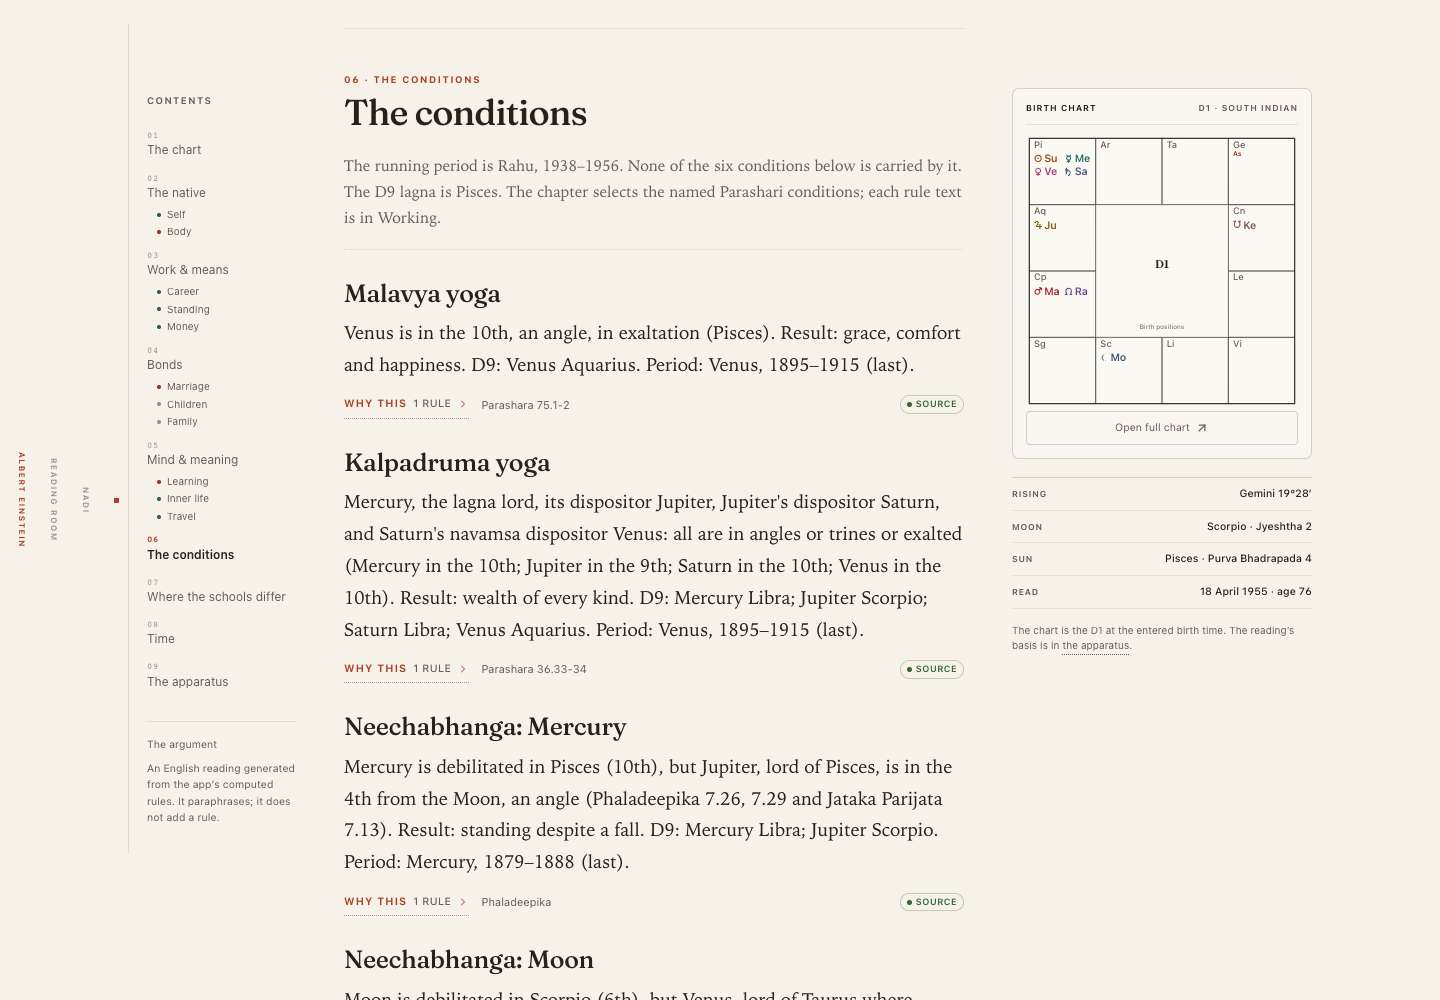
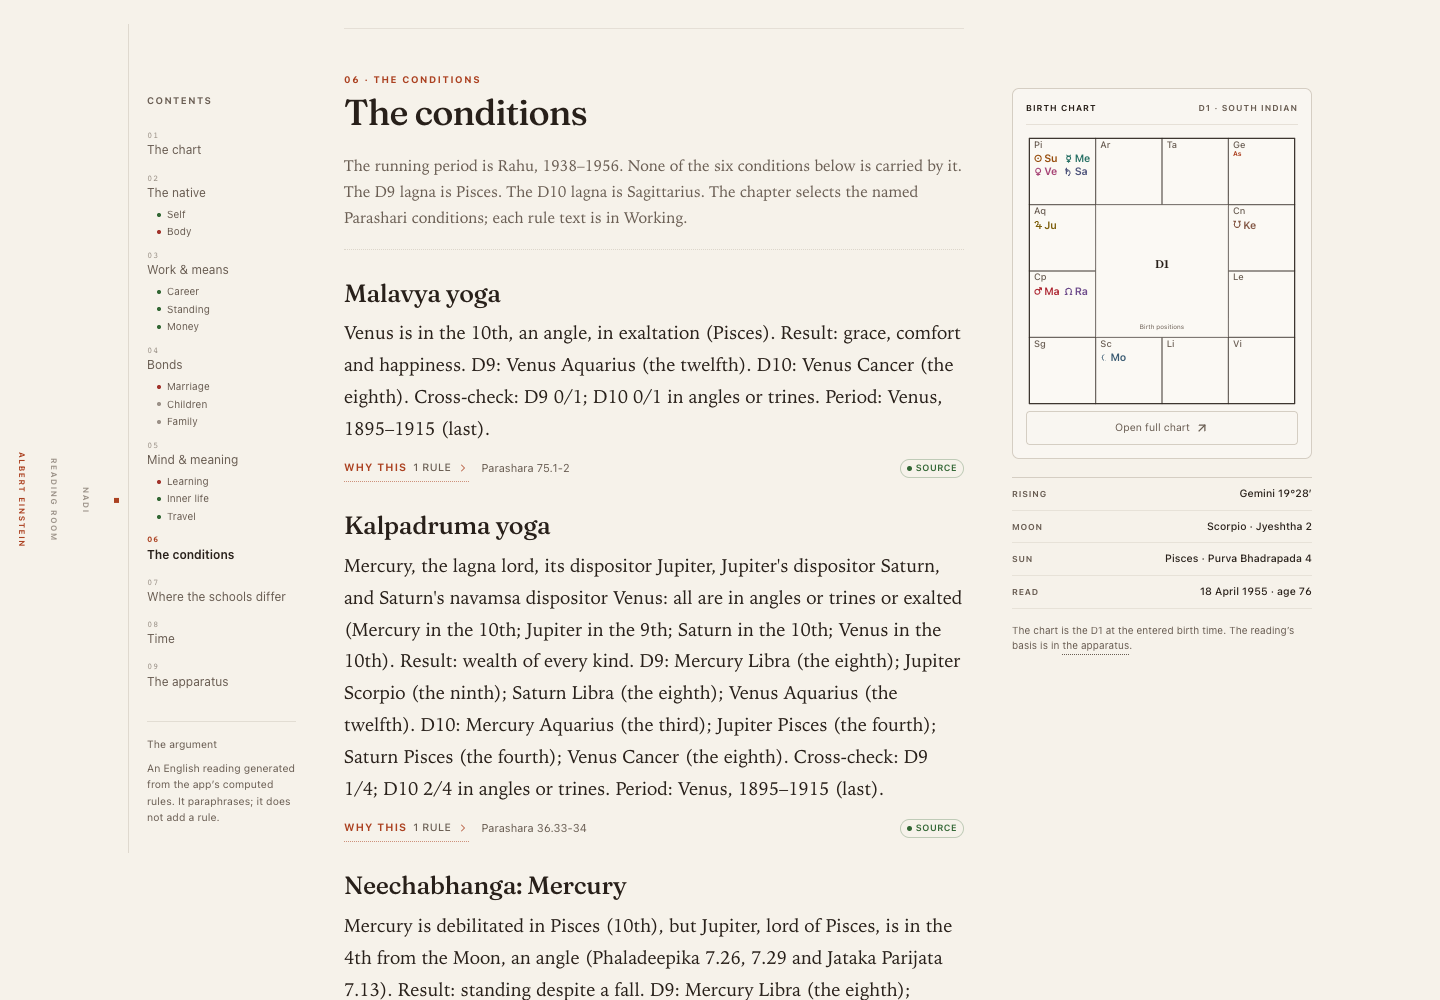
Add D9/D10 cross-checks to the condition layer

Changed region(s): [[0.2188, 0.341, 0.6875, 1.0], [0.375, 0.186, 0.6562, 0.217], [0.25, 0.217, 0.3125, 0.248]]

diff --git a/shared/reading-prose.ts b/shared/reading-prose.ts
@@ -21,6 +21,7 @@ import { briefingFor, type Briefing, type BriefRow } from "./briefing";
 import { readerExperience, type ReaderExperience, type ReaderTopic } from "./reader-experience";
 import { PLAIN_TOPIC_LABEL, PLAIN_TOPIC_ORDER, type PlainTopic } from "./topic-brief";
 import type { ParashariFinding, ParashariResult } from "./parashari";
+import { computeVargas, type VargaKey, type VargasResult } from "./vargas";
 import { AREA_STRUCTURES } from "./reading-lexicon";
 
 // ── Public shapes ───────────────────────────────────────────────────────────────────────────────
@@ -85,8 +86,12 @@ export interface ReadingCondition {
   active: boolean;
   /** "Period: Venus, 1895–1915 (last)." */
   period: string;
-  /** "D9: Venus Aquarius; Mercury Libra." */
+  /** "D9: Venus Aquarius (12th); Mercury Libra (8th)." */
   d9: string;
+  /** "D10: Venus Leo (8th); Mercury Virgo (3rd)." */
+  d10: string;
+  /** "Cross-check: D9 0/1; D10 0/1 in angles or trines." */
+  crossCheck: string;
   /** The first sentence of the rule and its gist. */
   text: string;
 }
@@ -535,6 +540,8 @@ class Writer {
   get agreement() { return this.input.agreement; }
   get briefing() { return this.input.briefing; }
   get parashari() { return this.input.parashari; }
+  private vargaCache?: VargasResult;
+  get vargas() { return (this.vargaCache ??= computeVargas(this.positions, this.lagna.lon)); }
   get chart() { return this.input.result.chart; }
   get positions() { return this.input.result.positions; }
   get lagna() { return this.input.result.jaimini.lagna; }
@@ -1129,10 +1136,37 @@ class Writer {
     return "Period: none in the sequence.";
   }
 
+  private vargaLine(key: Extract<VargaKey, "D9" | "D10">, f: ParashariFinding): string {
+    const lagna = this.vargas.lagna[key];
+    const signs = new Map(this.vargas.planets.map((p) => [p.planet, p.signs[key]]));
+    const parts = f.planets.map((planet) => {
+      const sign = signs.get(planet);
+      if (sign === undefined) return "";
+      return `${planet} ${SIGNS[sign]} (the ${ORD_WORDS[houseFrom(lagna, sign)]})`;
+    }).filter(Boolean);
+    return parts.length ? `${key}: ${parts.join("; ")}.` : "";
+  }
+
   private conditionD9(f: ParashariFinding): string {
-    const navamsa = new Map(this.result.jaimini.navamsa.map((p) => [p.planet, p.sign]));
-    const parts = f.planets.map((p) => `${p} ${navamsa.get(p) ?? ""}`.trim()).filter(Boolean);
-    return parts.length ? `D9: ${parts.join("; ")}.` : "";
+    return this.vargaLine("D9", f);
+  }
+
+  private conditionD10(f: ParashariFinding): string {
+    return this.vargaLine("D10", f);
+  }
+
+  private conditionCrossCheck(f: ParashariFinding): string {
+    const angles = new Set([1, 4, 5, 7, 9, 10]);
+    const count = (key: Extract<VargaKey, "D9" | "D10">) => {
+      const lagna = this.vargas.lagna[key];
+      const signs = new Map(this.vargas.planets.map((p) => [p.planet, p.signs[key]]));
+      return f.planets.filter((planet) => {
+        const sign = signs.get(planet);
+        return sign !== undefined && angles.has(houseFrom(lagna, sign));
+      }).length;
+    };
+    const total = f.planets.length;
+    return `Cross-check: D9 ${count("D9")}/${total}; D10 ${count("D10")}/${total} in angles or trines.`;
   }
 
   private conditionText(f: ParashariFinding): string {
@@ -1180,7 +1214,8 @@ class Writer {
         : `None of the ${count} conditions below is carried by it.`}`
       : "No Vimshottari period is running at the reading date.";
     const d9 = this.result.jaimini.navamsaLagna?.sign ? `The D9 lagna is ${this.result.jaimini.navamsaLagna.sign}.` : "";
-    return tidy(`${running} ${d9} The chapter selects the named Parashari conditions; each rule text is in Working.`);
+    const d10 = this.vargas.lagna.D10 !== undefined ? `The D10 lagna is ${SIGNS[this.vargas.lagna.D10]}.` : "";
+    return tidy(`${running} ${d9} ${d10} The chapter selects the named Parashari conditions; each rule text is in Working.`);
   }
 
   conditionSection(): { section: ProseSection; conditions: ReadingCondition[] } {
@@ -1194,13 +1229,15 @@ class Writer {
       active: this.conditionActive(f),
       period: this.conditionPeriod(f),
       d9: this.conditionD9(f),
+      d10: this.conditionD10(f),
+      crossCheck: this.conditionCrossCheck(f),
       text: this.conditionText(f),
     }));
     const paragraphs = findings.length
       ? findings.map((f) => ({
           id: `condition-${f.id}`,
           subhead: f.title,
-          text: tidy(`${this.conditionText(f)} ${this.conditionD9(f)} ${this.conditionPeriod(f)}`),
+          text: tidy(`${this.conditionText(f)} ${this.conditionD9(f)} ${this.conditionD10(f)} ${this.conditionCrossCheck(f)} ${this.conditionPeriod(f)}`),
           evidence: [this.parashariEvidence(f)],
         }))
       : [{ id: "conditions-empty", text: "The Parashari engine reports no named yoga for this chart.", evidence: [] }];
@@ -1211,7 +1248,7 @@ class Writer {
         title: "The conditions",
         preamble: conditions.length ? this.conditionPreamble(conditions) : undefined,
         paragraphs,
-        note: `The chapter selects ${conditions.length} named conditions, not the full yoga ledger. The period test is the app's own: the running lord must be one of the condition's planets; it is not a classical dasha-activation rule. Each rule text is in Why this.`,
+        note: `The chapter selects ${conditions.length} named conditions, not the full yoga ledger. The period test is the app's own: the running lord must be one of the condition's planets; it is not a classical dasha-activation rule. The D9/D10 cross-check counts the condition's planets in angles or trines from each varga lagna; it is an app cross-check, not a classical confirmation. Each rule text is in Why this.`,
       },
       conditions,
     };

diff --git a/scripts/reading-prose.test.ts b/scripts/reading-prose.test.ts
@@ -25,6 +25,8 @@ test("the reading has the agreed chapter shape", () => {
   assert.equal(doc.conditions.length, 6);
   assert.ok(doc.conditions.every((c) => c.period.startsWith("Period:")), "every condition states its period");
   assert.ok(doc.conditions.every((c) => c.d9.startsWith("D9:")), "every condition states its D9 positions");
+  assert.ok(doc.conditions.every((c) => c.d10.startsWith("D10:")), "every condition states its D10 positions");
+  assert.ok(doc.conditions.every((c) => c.crossCheck.startsWith("Cross-check:")), "every condition carries the angular cross-check");
   assert.equal(doc.index.length, 11);
   assert.deepEqual(
     doc.index.map((e) => e.topic),

diff --git a/docs/reading-room.md b/docs/reading-room.md
@@ -36,7 +36,7 @@ The first release read five areas. V2 reads the whole life without becoming elev
 | **Work & means** | career, authority, wealth | The working life, public standing and money as separate questions. |
 | **Bonds** | marriage, children, family | The chapter where disagreement is the finding; family is read member by member. |
 | **Mind & meaning** | education, spirituality, travel | The descriptive areas: learning, inner life and distance. |
-| **The conditions** | — | Six selected Parashari yogas, their D9 facts and the period that carries each. A condition ledger, not the full yoga corpus. |
+| **The conditions** | — | Six selected Parashari yogas, their D9/D10 positions, an angular cross-check and the period that carries each. A condition ledger, not the full yoga corpus. |
 | **Time** | — | The Vimshottari period, the sub-period and the slow sky, as clocks rather than events. |
 | **The schools** | — | The comparison of bases: five general topics × four schools, no vote. |
 | **The apparatus** | — | Sources, caveats, provenance, school cards, marks and citation. |
@@ -53,10 +53,11 @@ Each paragraph is a fixed ledger, not a free paragraph:
 
 1. the first sentence of the rule;
 2. `Result:` the rule's gist;
-3. `D9:` the navamsa positions of the condition's planets;
-4. `Period:` the Vimshottari period that carries it — current, next, or last.
+3. `D9:` and `D10:` the navamsa and dasamsa positions of the condition's planets;
+4. `Cross-check:` how many of those planets fall in the angles or trines from each varga lagna;
+5. `Period:` the Vimshottari period that carries it — current, next, or last.
 
-The D9 line is a set of positions, not a verdict. The period line is current when the running lord is one of the condition's planets; for a recorded death it uses the last period before the reading date, never a future period to imply posthumous activation. That activation test is the **app's own simplification**, not a classical dasha-activation rule; the condition is a named yoga, and the period is a reading aid. For the Einstein chart the running Rahu period carries none of the six, and the chapter says so. The full rule text is in Why this; the chapter is not the complete yoga ledger.
+The D9/D10 lines are positions, not verdicts. The cross-check is an **app convention**: it counts the condition's planets in the 1st, 4th, 5th, 7th, 9th and 10th from the varga lagna. It is not a classical varga-confirmation rule. For Einstein, Malavya is 0/1 in both vargas, while the Kendra-trikona exchange is 2/2 in D10; the chapter prints both counts rather than smoothing them. The period line is current when the running lord is one of the condition's planets; for a recorded death it uses the last period before the reading date, never a future period to imply posthumous activation. That activation test is the **app's own simplification**, not a classical dasha-activation rule; the condition is a named yoga, and the period is a reading aid. For the Einstein chart the running Rahu period carries none of the six, and the chapter says so. The full rule text is in Why this; the chapter is not the complete yoga ledger.
 
 
 The **chapter preamble** is now the technical frame in the reading: the lagna and relevant houses, their lords and occupants, degrees, dignities and strength, the Jaimini karakas (with D9), and the KP cusp and sub-lord. It assumes the reader knows **lagna, bhava, lord, karaka, D9, dasha, bhukti, pratyantar, bindus and cusp sub-lord**. It does not gloss them. The per-area Parashari frame remains in Working.
@@ -76,7 +77,7 @@ Each chapter now has three registers:
 2. **The area paragraphs** — the human argument: claim, the area's fixed structure anchor, the reviewed Nadi lines, bridge, limit.
 3. **The coda** — a short closing paragraph, marked with a vermilion square, that states the chapter's pattern across its areas.
 
-The reading is longer because it is no longer a trailer. The Einstein chart runs to roughly 2,200 words and eleven minutes; the preambles carry the facts a practitioner would otherwise look up in the tabs, every area names its configuration in its own fixed form, and the conditions chapter adds the named yogas the tab engine already found.
+The reading is longer because it is no longer a trailer. The Einstein chart runs to roughly 2,350 words and twelve minutes; the preambles carry the facts a practitioner would otherwise look up in the tabs, every area names its configuration in its own fixed form, and the conditions chapter adds the named yogas the tab engine already found.
 
 ## The prose layer
 
@@ -107,7 +108,7 @@ The details that make it read like English rather than a table:
 - **Uncertainty in the grammar.** A contested area is allowed to be an argument; a provisional rule keeps its mark; a calculation's grade is in the working, not hidden in a footnote.
 - **No forecast.** The timing section names the period and the sky and says, in the same breath, that the app does not turn them into an event.
 
-For the Einstein chart the reading is about 2,200 words and eleven minutes, with eleven area paragraphs, four technical preambles, four chapter codas and six condition paragraphs. The lead is:
+For the Einstein chart the reading is about 2,350 words and twelve minutes, with eleven area paragraphs, four technical preambles, four chapter codas and six condition paragraphs. The lead is:
 
 > Albert Einstein was born on 14 March 1879 at 11:30 local time in Ulm, Baden-Wurttemberg, Germany, with Gemini rising at 19°28′. The chart's centre of gravity is Jupiter, the Jeeva, standing alone in Aquarius at 5°19′. Pisces — the tenth sign from the rising — gathers the Sun, Mercury, Saturn, and Venus, which is where the work theme begins. The Moon is in Scorpio, Jyeshtha 2, the sixth house from the rising.
 
@@ -118,7 +119,7 @@ For the Einstein chart the reading is about 2,200 words and eleven minutes, with
 - **The marginal spine.** At wide widths, a vertical folio runs down the outer margin — the room's signature, not an app chrome.
 - **In brief and the contents rail.** The summary is a run-in epigraph; the eleven areas are nested in the contents rail, not in a card grid. The rail is also the chapter navigation.
 - **The preamble and the frames.** Each life chapter opens with the technical preamble; every area still carries its Parashari house frame in Working, and each chapter carries the Jaimini and KP lines.
-- **The conditions.** Six named Parashari yogas are selected, each with the first sentence of its rule, its result, its D9 positions and the Vimshottari period that carries it. The running Rahu period carries none of the six; the chapter says so rather than inventing an activation. The full rule text is in Why this.
+- **The conditions.** Six named Parashari yogas are selected, each with the first sentence of its rule, its result, its D9 and D10 positions, an angular cross-check and the Vimshottari period that carries it. The running Rahu period carries none of the six; the chapter says so rather than inventing an activation. The full rule text is in Why this.
 - **Why this.** Every paragraph with evidence carries the mark types and a button that opens the exact rule text, source and grade.
 - **The comparison.** Five general topics × four schools. Each cell is the school's own verdict and the object it judged; the row carries the combined reading. No vote is counted. Life span is a separate, gated topic and is not folded in.
 - **Time.** The Vimshottari period, the sub-period, the third-level period, and the slow sky, as a structured timeline, not forty pages of paryanthar prose.
@@ -168,7 +169,7 @@ npx tsx --test scripts/reading-prose.test.ts
 npm run build
 ```
 
-The three prose tests check the chapter shape, the four preambles and codas, the six conditions and their period/D9 fields, all eleven area paragraphs and their frames, the five-line summary and the eleven-area contents, determinism across two compositions, the lexicon lint (no "clearest line", no universal "The line is", small allowances for repeated tone words), unique area claims, and the presence of source, provisional and calculation marks.
+The three prose tests check the chapter shape, the four preambles and codas, the six conditions and their period, D9/D10 and cross-check fields, all eleven area paragraphs and their frames, the five-line summary and the eleven-area contents, determinism across two compositions, the lexicon lint (no "clearest line", no universal "The line is", small allowances for repeated tone words), unique area claims, and the presence of source, provisional and calculation marks.
 
 A teardown of a mainstream 108-page Parashari report, and what to borrow or avoid, is in [mainstream-reference.md](mainstream-reference.md).
 

diff --git a/README.md b/README.md
@@ -6,7 +6,7 @@ A published snapshot runs at [astroengine.pplx.app](https://astroengine.pplx.app
 
 ## Reading room (design fork)
 
-This branch adds an editorial reading surface at `#/chart/:id/room`, with **Reading / Working / Critical** layers, **four life chapters, a selected conditions chapter, and Time**, every area nested in the contents rail, a run-in **In brief**, a practitioner-register prose layer over the existing readings (technical preambles, chapter codas, fixed rhetorical structures with a tested lexicon, named conditions with D9 and period activation, about 2,200 words for the Einstein chart), a school-aware chart card, the evidence drawer, a comparison-basis table, a timeline, provenance and citation. The workbench stays available, but the room is the primary entry: a newly cast or saved chart opens the room, the chart header makes **Reading room** primary, and the guided reader links to the full edition.
+This branch adds an editorial reading surface at `#/chart/:id/room`, with **Reading / Working / Critical** layers, **four life chapters, a selected conditions chapter, and Time**, every area nested in the contents rail, a run-in **In brief**, a practitioner-register prose layer over the existing readings (technical preambles, chapter codas, fixed rhetorical structures with a tested lexicon, named conditions with D9/D10 cross-checks and period activation, about 2,350 words for the Einstein chart), a school-aware chart card, the evidence drawer, a comparison-basis table, a timeline, provenance and citation. The workbench stays available, but the room is the primary entry: a newly cast or saved chart opens the room, the chart header makes **Reading room** primary, and the guided reader links to the full edition.
 
 The prose layer lives in [`shared/reading-prose.ts`](shared/reading-prose.ts); the page is [`client/src/pages/reading-room.tsx`](client/src/pages/reading-room.tsx); the design notes and screenshots are in [`docs/reading-room.md`](docs/reading-room.md). It adds no astrology and no LLM: it uses the app's reviewed Nadi prose and school chart contexts, and keeps the exact rule text, source and grade one click away.
 

diff --git a/docs/prose-lexicon.md b/docs/prose-lexicon.md
@@ -54,7 +54,9 @@ The conditions chapter is not written with the area structures. It uses one fixe
 ```
 <first sentence of the rule>
 Result: <the rule's gist>.
-D9: <planet sign; planet sign>.
+D9: <planet sign (house from D9 lagna); ...>.
+D10: <planet sign (house from D10 lagna); ...>.
+Cross-check: D9 <count>/<total>; D10 <count>/<total> in angles or trines.
 Period: <lord, years> (current | next | last).
 ```
 
